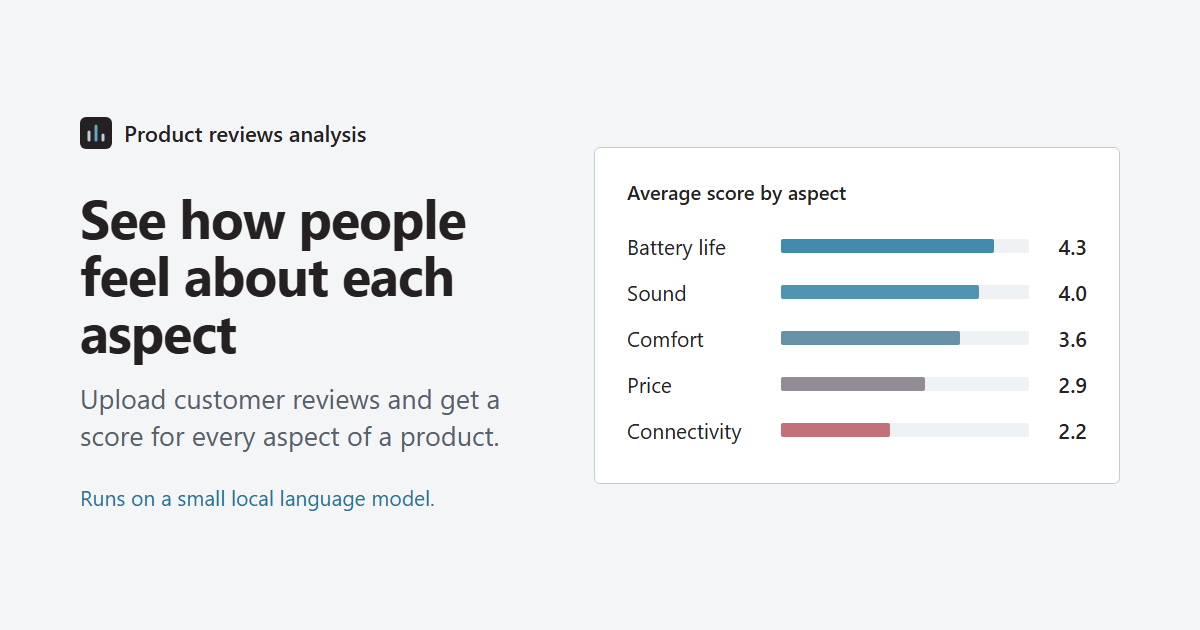
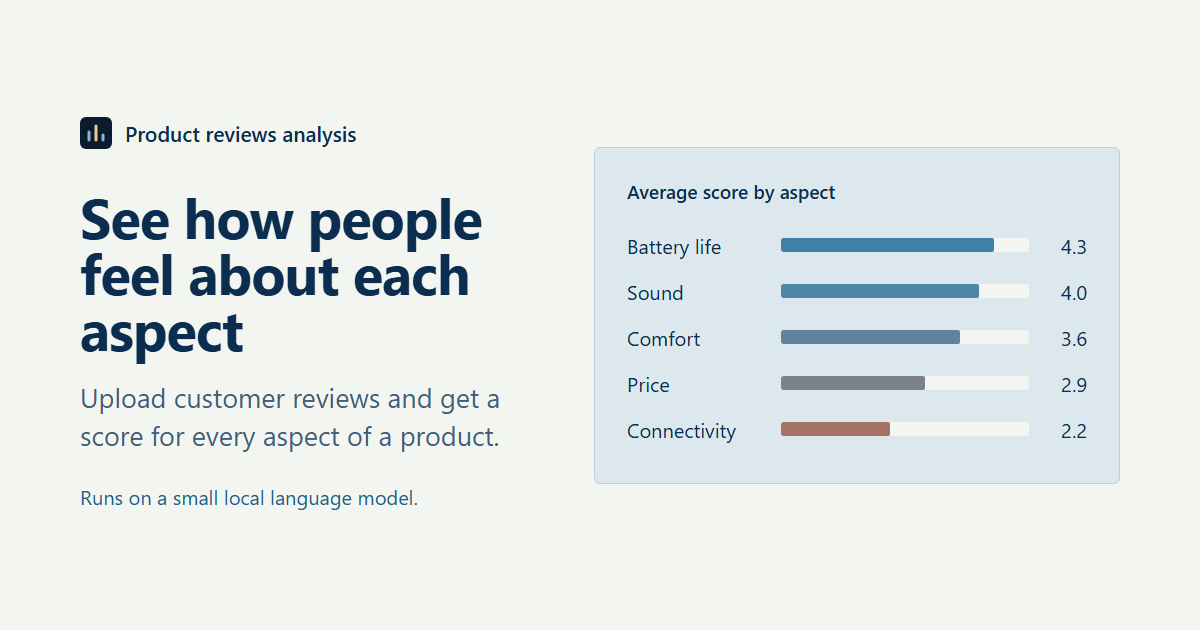
[Frontend] changed color palette

diff --git a/frontend/src/index.css b/frontend/src/index.css
@@ -4,30 +4,35 @@
    In both themes every text color is at least 4.5:1 against the background it sits on,
    and every border or outline that marks a control is at least 3:1 (checked in theme.test.ts).
 
-   Palette: Thunder #252022 (ink, dark card), Heather #c0cdd7 (dividers, dark hover),
-   Jelly Bean #227599 (light accent), Fountain Blue #5fa7c0 (dark accent). The interface
-   is ink and grey; the accent marks focus, selection and progress, and nothing else. */
+   Palette: Tidal print. Background, surface (here --card), border, text, muted, link
+   (here --accent), button (--primary), soft blue (--bar), sand and rust come from it.
+   --surface is the page color reused as an inset inside cards; --border-strong,
+   --accent-soft and the hover shades are derived, because the palette's own border and
+   soft blue are too faint for controls and text. Primary buttons are the palette's
+   button blue; the link blue marks links, focus, selection and progress. */
 :root {
   color-scheme: light dark;
-  --bg: light-dark(#f3f5f7, #1a1718);
-  --card: light-dark(#ffffff, #252022);
-  --surface: light-dark(#eef2f5, #2f2a2c); /* table header, hovered rows, phrase list */
-  --text: light-dark(#252022, #e9eef2);
-  --muted: light-dark(#56606a, #a3adb6);
-  --border: light-dark(#c0cdd7, #3a3437); /* dividers and card edges, not controls */
-  --border-strong: light-dark(#7a8794, #7d8790); /* inputs, drop zone, step markers */
-  --primary: light-dark(#252022, #e9eef2); /* primary buttons: ink */
-  --primary-hover: light-dark(#3d3539, #c0cdd7);
-  --primary-text: light-dark(#ffffff, #252022);
-  --accent: light-dark(#227599, #5fa7c0);
-  --accent-hover: light-dark(#1b5f7c, #7dbdd2);
-  --accent-text: light-dark(#ffffff, #252022);
-  --accent-soft: light-dark(#edf5f8, #1c3039);
-  --bar: light-dark(#c0cdd7, #4a5660); /* phrase frequency bars */
-  --danger-bg: light-dark(#fdecec, #3a1c20);
+  --bg: light-dark(#f3f5f0, #0a1b2e);
+  --card: light-dark(#dce8ee, #12304a);
+  --surface: light-dark(#f3f5f0, #0a1b2e); /* table header, hovered rows, drop zone */
+  --text: light-dark(#0b2d4f, #eaf1f5);
+  --muted: light-dark(#3f5f7c, #9db6c9);
+  --border: light-dark(#bfd0da, #24435e); /* dividers and card edges, not controls */
+  --border-strong: light-dark(#6a8499, #5f7f99); /* inputs, drop zone, step markers */
+  --primary: light-dark(#1e78a6, #5fa8d3); /* primary buttons */
+  --primary-hover: light-dark(#18638a, #82bde0);
+  --primary-text: light-dark(#ffffff, #0a1b2e);
+  --accent: light-dark(#1f5f8b, #8db4cc); /* links, focus, selection, progress */
+  --accent-hover: light-dark(#174a6d, #b3cfe0);
+  --accent-text: light-dark(#ffffff, #0a1b2e);
+  --accent-soft: light-dark(#c9dce8, #1c4566);
+  --bar: light-dark(#8db4cc, #2f6690); /* soft blue: phrase frequency bars */
+  --sand: light-dark(#f0c98a, #f0c98a);
+  --rust: light-dark(#b5532e, #e08a63);
+  --danger-bg: light-dark(#fdecec, #3d1d27);
   --danger-text: light-dark(#8f1d1d, #ffb8b8);
-  --warn-bg: light-dark(#fff4d6, #332811);
-  --warn-text: light-dark(#6b4700, #f4d084);
+  --warn-bg: light-dark(#f0c98a, #f0c98a); /* sand */
+  --warn-text: light-dark(#0b2d4f, #0b2d4f);
   --radius: 6px;
   font-family:
     system-ui,
@@ -388,6 +393,8 @@ input::placeholder {
 .banner.warn {
   background: var(--warn-bg);
   color: var(--warn-text);
+  border-color: var(--rust);
+  border-left-width: 4px;
 }
 
 /* upload */

diff --git a/frontend/src/format.ts b/frontend/src/format.ts
@@ -16,17 +16,17 @@ export function formatScore(mean: number | null, digits = 2): string {
 }
 
 // The average score has a direction (bad, neutral, good), so the bars use a diverging
-// scale: red for 1, a neutral gray for 3, the palette's blue for 5 (Jelly Bean in the
-// light theme, Fountain Blue in the dark one), one stop per whole score.
-// Red and blue stay apart for colorblind readers, unlike red and green. The gray
+// scale: the palette's rust for 1, a neutral gray for 3, its button blue for 5, one stop
+// per whole score.
+// Rust and blue stay apart for colorblind readers, unlike red and green. The gray
 // midpoint is the most recessive stop: lightest in the light theme, dimmest in the dark
 // theme. Every stop, and every blend between them, is at least 3:1 against the card
 // (checked in theme.test.ts).
 export const SCORE_STOPS: Record<ColorScheme, string[]> = {
-  light: ['#b8323a', '#cf6a6f', '#8a8f99', '#4f93b0', '#227599'],
-  dark: ['#f07878', '#c4787f', '#7b7f88', '#4c8ba3', '#5fa7c0'],
+  light: ['#b5532e', '#b06f5a', '#77838e', '#4f86a8', '#1e78a6'],
+  dark: ['#e08a63', '#b98670', '#6f8496', '#4f8fb8', '#5fa8d3'],
 }
-const NEUTRAL: Record<ColorScheme, string> = { light: '#7a8794', dark: '#8a939c' }
+const NEUTRAL: Record<ColorScheme, string> = { light: '#6a8499', dark: '#8a939c' }
 
 const toRgb = (color: string) => [1, 3, 5].map((i) => parseInt(color.slice(i, i + 2), 16))
 const hex = (value: number) => Math.round(value).toString(16).padStart(2, '0')

diff --git a/frontend/index.html b/frontend/index.html
@@ -4,8 +4,8 @@
     <meta charset="UTF-8" />
     <link rel="icon" type="image/svg+xml" href="/favicon.svg" />
     <meta name="color-scheme" content="light dark" />
-    <meta name="theme-color" media="(prefers-color-scheme: light)" content="#f3f5f7" />
-    <meta name="theme-color" media="(prefers-color-scheme: dark)" content="#1a1718" />
+    <meta name="theme-color" media="(prefers-color-scheme: light)" content="#f3f5f0" />
+    <meta name="theme-color" media="(prefers-color-scheme: dark)" content="#0a1b2e" />
     <meta name="viewport" content="width=device-width, initial-scale=1.0" />
     <title>Product reviews analysis</title>
     <link rel="apple-touch-icon" href="/apple-touch-icon.png" />

diff --git a/frontend/src/format.test.ts b/frontend/src/format.test.ts
@@ -52,7 +52,7 @@ describe('scoreColor', () => {
   })
 
   it('blends between neighbouring stops', () => {
-    expect(scoreColor(2.5)).toBe('#ad7d84') // halfway from #cf6a6f to #8a8f99
+    expect(scoreColor(2.5)).toBe('#947974') // halfway from #b06f5a to #77838e
   })
 
   it('stays inside the range for odd input', () => {
@@ -61,6 +61,6 @@ describe('scoreColor', () => {
   })
 
   it('uses a neutral color when nothing was scored', () => {
-    expect(scoreColor(null)).toBe('#7a8794')
+    expect(scoreColor(null)).toBe('#6a8499')
   })
 })
